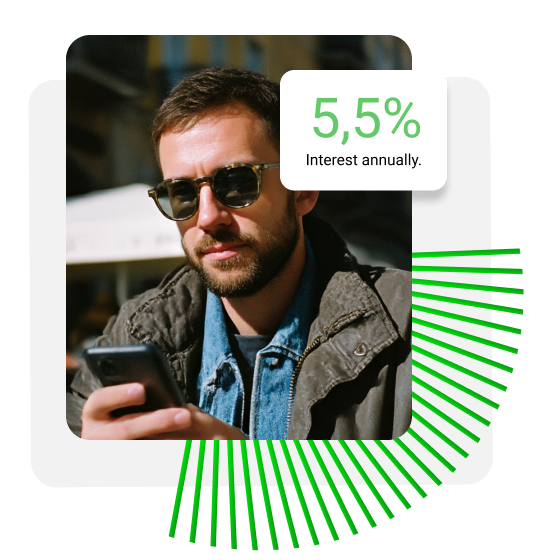
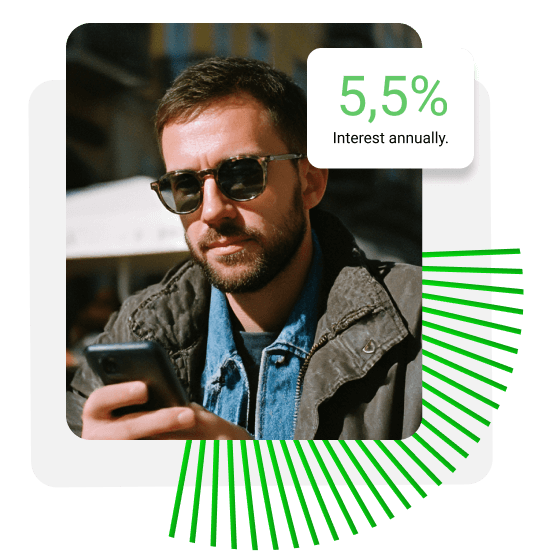
feat: new assets

Changed region(s): [[0.1214, 0.0304, 0.85, 0.7893], [0.1821, 0.7286, 0.2125, 0.7589], [0.1214, 0.7589, 0.1518, 0.7893]]

diff --git a/packages/integrations/mocked/src/modules/cms/mappers/blocks/cms.hero-section.mapper.ts b/packages/integrations/mocked/src/modules/cms/mappers/blocks/cms.hero-section.mapper.ts
@@ -182,7 +182,7 @@ const MOCK_HERO_SECTION_BLOCK_3_EN: CMS.Model.HeroSectionBlock.HeroSectionBlock 
     inverted: false,
     headingType: 'h1',
     image: {
-        url: 'https://raw.githubusercontent.com/o2sdev/dxp-starter-kit/main/packages/integrations/mocked/public/images/demo/Frame-3.png',
+        url: 'https://raw.githubusercontent.com/o2sdev/dxp-starter-kit/main/packages/integrations/mocked/public/images/demo/Frame-72.png',
         width: 560,
         height: 560,
         alt: 'Hero Section Image',
@@ -214,7 +214,7 @@ const MOCK_HERO_SECTION_BLOCK_3_DE: CMS.Model.HeroSectionBlock.HeroSectionBlock 
     inverted: false,
     headingType: 'h1',
     image: {
-        url: 'https://raw.githubusercontent.com/o2sdev/dxp-starter-kit/main/packages/integrations/mocked/public/images/demo/Frame-3.png',
+        url: 'https://raw.githubusercontent.com/o2sdev/dxp-starter-kit/main/packages/integrations/mocked/public/images/demo/Frame-72.png',
         width: 560,
         height: 560,
         alt: 'Hero Section Image',
@@ -245,7 +245,7 @@ const MOCK_HERO_SECTION_BLOCK_3_PL: CMS.Model.HeroSectionBlock.HeroSectionBlock 
     inverted: false,
     headingType: 'h1',
     image: {
-        url: 'https://raw.githubusercontent.com/o2sdev/dxp-starter-kit/main/packages/integrations/mocked/public/images/demo/Frame-3.png',
+        url: 'https://raw.githubusercontent.com/o2sdev/dxp-starter-kit/main/packages/integrations/mocked/public/images/demo/Frame-72.png',
         width: 560,
         height: 560,
         alt: 'Hero Section Image',

diff --git a/packages/integrations/mocked/src/modules/cms/mappers/mocks/pages/business-help-and-support.page.ts b/packages/integrations/mocked/src/modules/cms/mappers/mocks/pages/business-help-and-support.page.ts
@@ -17,6 +17,18 @@ export const PAGE_BUSINESS_HELP_AND_SUPPORT_1_EN: CMS.Model.Page.Page = {
             alt: 'Placeholder',
         },
     },
+    parent: {
+        slug: '/business/cards',
+        seo: {
+            title: 'Cards',
+        },
+        parent: {
+            slug: '/business',
+            seo: {
+                title: 'Business',
+            },
+        },
+    },
     theme: 'business',
     permissions: [],
     hasOwnTitle: false,
@@ -58,6 +70,18 @@ export const PAGE_BUSINESS_HELP_AND_SUPPORT_1_DE: CMS.Model.Page.Page = {
             alt: 'Placeholder',
         },
     },
+    parent: {
+        slug: '/geschaftlich/karten',
+        seo: {
+            title: 'Karten',
+        },
+        parent: {
+            slug: '/geschaftlich',
+            seo: {
+                title: 'Geschäftlich',
+            },
+        },
+    },
     theme: 'business',
     permissions: [],
     hasOwnTitle: false,
@@ -97,6 +121,18 @@ export const PAGE_BUSINESS_HELP_AND_SUPPORT_1_PL: CMS.Model.Page.Page = {
             width: 150,
             height: 150,
             alt: 'Placeholder',
+        },
+    },
+    parent: {
+        slug: '/firma/karty',
+        seo: {
+            title: 'Karty',
+        },
+        parent: {
+            slug: '/firma',
+            seo: {
+                title: 'Firma',
+            },
         },
     },
     theme: 'business',

diff --git a/packages/integrations/mocked/src/modules/cms/mappers/mocks/pages/personal-help-and-support.page.ts b/packages/integrations/mocked/src/modules/cms/mappers/mocks/pages/personal-help-and-support.page.ts
@@ -17,6 +17,12 @@ export const PAGE_PERSONAL_HELP_AND_SUPPORT_1_EN: CMS.Model.Page.Page = {
             alt: 'Placeholder',
         },
     },
+    parent: {
+        slug: '/personal',
+        seo: {
+            title: 'Personal',
+        },
+    },
     theme: 'personal',
     permissions: [],
     hasOwnTitle: false,
@@ -58,6 +64,12 @@ export const PAGE_PERSONAL_HELP_AND_SUPPORT_1_DE: CMS.Model.Page.Page = {
             alt: 'Placeholder',
         },
     },
+    parent: {
+        slug: '/personlich',
+        seo: {
+            title: 'Persönlich',
+        },
+    },
     theme: 'personal',
     permissions: [],
     hasOwnTitle: false,
@@ -97,6 +109,12 @@ export const PAGE_PERSONAL_HELP_AND_SUPPORT_1_PL: CMS.Model.Page.Page = {
             width: 150,
             height: 150,
             alt: 'Placeholder',
+        },
+    },
+    parent: {
+        slug: '/indywidualny',
+        seo: {
+            title: 'Indywidualny',
         },
     },
     theme: 'personal',

diff --git a/packages/cli/create-dxp-app/src/index.ts b/packages/cli/create-dxp-app/src/index.ts
@@ -15,7 +15,7 @@ program
     .argument('[name]', 'Name of the new project')
     .option('--directory [directory]', 'Specify the destination directory', 'my-dxp-project')
     .action(async (name, options) => {
-        telemetry.sendEvent('create-dxp-app', 'create-project');
+        telemetry.sendEvent('dxp', 'create-o2s-app', 'create-project');
         await telemetry.flushEvents();
 
         const projectName = name

diff --git a/apps/api-harmonization/src/main.ts b/apps/api-harmonization/src/main.ts
@@ -54,8 +54,9 @@ async function bootstrap() {
 
     app.useLogger(app.get(LoggerService));
 
-    telemetry.sendEvent('api-harmonization', 'bootstrap');
+    telemetry.sendEvent('dxp', 'api-harmonization', 'bootstrap');
     telemetry.sendEvent(
+        'dxp',
         'api-harmonization',
         'integrations',
         Object.entries(AppConfig.integrations).reduce((prev, [module, integration]) => {

diff --git a/packages/ui/src/theme.css b/packages/ui/src/theme.css
@@ -5,7 +5,7 @@
     --card-foreground: hsl(0, 0%, 100%);
     --popover: hsl(0 0% 100%);
     --popover-foreground: hsl(240 10% 4%);
-    --primary: hsl(114 95.2% 32.4%);
+    --primary: hsl(113.9,100%,27.1%);
     --primary-foreground: hsl(0 0% 100%);
     --secondary: hsla(114, 95%, 32%, 0.1);
     --secondary-foreground: hsl(0 0% 0%);

diff --git a/packages/integrations/mocked/src/modules/cms/mappers/mocks/pages/personal.page.ts b/packages/integrations/mocked/src/modules/cms/mappers/mocks/pages/personal.page.ts
@@ -211,7 +211,7 @@ export const PAGE_PERSONAL_PL: CMS.Model.Page.Page = {
     },
     theme: 'personal',
     permissions: [],
-    hasOwnTitle: false,
+    hasOwnTitle: true,
     showBreadcrumbs: false,
     template: {
         __typename: 'OneColumnTemplate',
